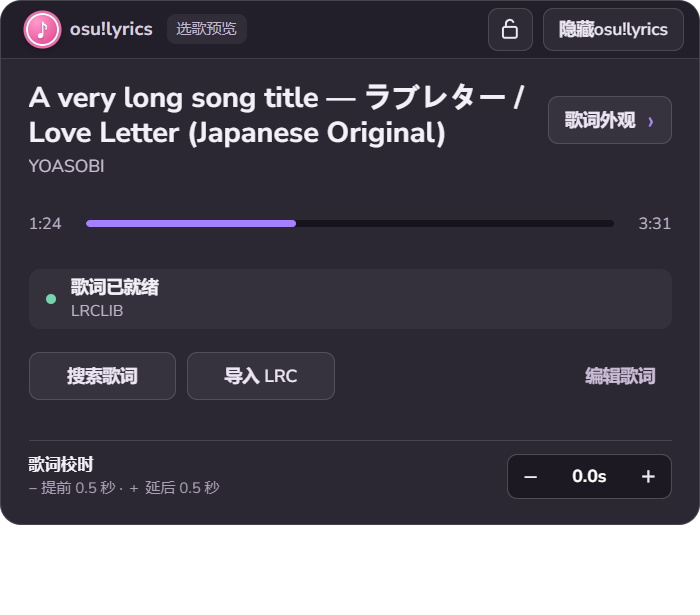
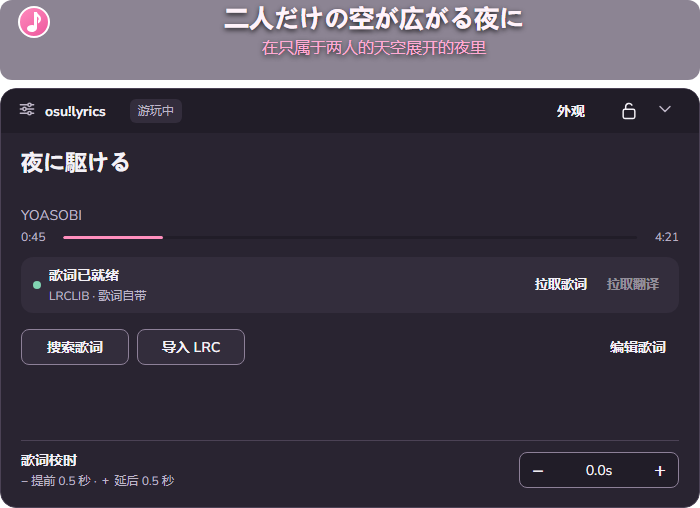
osu!lyrics 0.5.0: unified UI v2, recording-safe caches and lyric fixes
Brings main up to the build that has been in daily use:
- unified 44px header with settings menu, lock and collapse; pink note to expand
- lyrics and timing isolated per package and recording; stale imports rejected
- LRCLIB manual search uses the documented q parameter
- clock envelope resets on disconnect; known wrong-song Idol lyrics rejected

New in this release:
- caches saved by 0.4.12 and earlier are copied to the new per-recording names
  the first time a song is opened, so imported/edited lyrics and offsets survive
- README and interface notes describe the v2 controls; screenshots regenerated;
  drop internal review logs

diff --git a/README.en.md b/README.en.md
@@ -12,9 +12,9 @@ A standalone Windows lyrics overlay for osu!lazer. It reads the current beatmap 
 2. Start osu!lazer. If prompted to install tosu on first use, click **安装** (Install). The app downloads a pinned version and checks its SHA-256 hash. Use borderless or windowed mode so the external overlay can stay above the game.
 3. Play or preview a song. The app searches for timed lyrics automatically. If it cannot find a suitable version, use **搜索歌词** (Search lyrics), **导入 LRC** (Import LRC), or **编辑歌词** (Edit lyrics). The `−` and `＋` controls adjust timing by 0.5 seconds per click.
 
-Drag the lyrics to move them, or drag their edge to resize them. The lock icon locks their position. Click the pink note at the top left to collapse or expand the control panel; the panel can also be moved and resized from its edges. **歌词外观** (Lyric appearance) controls size, background opacity, colors, typography, and Chinese translation. Four color swatches provide quick styles. A fresh installation defaults to white lyrics with pink translation; the screenshot shows the Aqua style. Position, appearance, lock state, and per-song timing adjustments persist across launches.
+Drag the lyrics to move them, or drag their edge to resize them. The lock icon at the panel's top right locks their position. The ⌄ button collapses the control panel, leaving the lyrics and a pink note; click the note to expand it again. The settings button at the panel's top left opens the same menu as the tray icon (hide completely, lock, quit). The panel can also be moved and resized from its edges. **歌词外观** (Lyric appearance) controls size, background opacity, colors, typography, and Chinese translation. Four color swatches provide quick styles. A fresh installation defaults to white lyrics with pink translation; the screenshot shows the Aqua style. Position, appearance, lock state, and per-song timing adjustments persist across launches.
 
-Press **Ctrl+Alt+Shift+L** to hide or show the entire overlay, or use the note icon's menu in the Windows notification area. Use that menu to quit. If another application has taken the shortcut, the tray menu still works.
+Press **Ctrl+Alt+Shift+L** to hide or show the entire overlay, or use the settings menu or the note icon's menu in the Windows notification area. Use either menu to quit. Lyrics and timing saved by 0.4.12 or earlier are migrated the first time each song is opened. If another application has taken the shortcut, the tray menu still works.
 
 Settings and local lyrics are stored in `%APPDATA%\osu-lyrics-companion`. **The portable EXE is the recommended way to use the app.** `start.cmd` and `start.ps1` are only for running from source; the former can be double-clicked, and the latter can be run with `powershell -ExecutionPolicy Bypass -File .\start.ps1`. Both install dependencies on first use. Run `npm test` for the source tests. The application interface is currently in Chinese.
 

diff --git a/README.md b/README.md
@@ -16,7 +16,7 @@
 
 2. 打开 osu!lazer。首次使用若提示缺少 tosu，点「安装」，程序会自动下载固定版本。
 
-3. 根据自己喜好调整一下配置，然后**点击左上角粉色音符收起配置界面，开始 osu! 吧！**
+3. 根据自己喜好调整一下配置，然后**点击面板右上角的 ⌄ 收起配置界面，开始 osu! 吧！**
 
 ### 歌词与控制面板
 
@@ -24,9 +24,11 @@
 
 - 移动 / 缩放：拖动歌词或面板本体可移动位置，拖动边缘可缩放。
 
-- 锁定：点击锁图标锁定当前位置。
+- 锁定：点击面板右上角的锁图标锁定当前位置。
 
-- 收起 / 展开：点击**左上角粉色音符**可收起或展开控制面板。
+- 收起 / 展开：点面板右上角的 ⌄ 收起控制面板，只留下歌词和左侧的**粉色音符**；点粉色音符再展开。
+
+- 设置菜单：面板左上角的设置按钮里有「完全隐藏」「锁定位置」「退出」，和任务栏图标的菜单一样。
 
 - 校时：「−／＋」每次调整 0.5 秒。
 
@@ -36,9 +38,11 @@
 
 ### 显示与退出
 
-- 显示 / 隐藏：Ctrl+Alt+Shift+L 切换整个悬浮窗口，右键任务栏小图标也可切换。
+- 显示 / 隐藏：Ctrl+Alt+Shift+L 切换整个悬浮窗口；也可以用设置菜单或右键任务栏小图标。
 
-- 退出：右键任务栏小图标 → 退出。
+- 退出：设置菜单或任务栏小图标 → 退出。
+
+- 升级：0.4.12 及更早版本保存的歌词和校时会在第一次打开对应歌曲时自动迁移。
 
 - 若快捷键被其他软件占用，仍可通过任务栏小图标控制。
 

diff --git a/docs/interface-design.md b/docs/interface-design.md
@@ -2,6 +2,16 @@
 
 目标：在展开的面板中看清歌曲、歌词状态与外观参数；收起后只留下歌词与展开音符。
 
+## 0.5（统一 UI v2）相对下文的变化
+
+- 顶栏 44 像素：左侧是设置按钮（菜单和任务栏图标相同：完全隐藏、锁定、退出）、品牌和播放阶段；右侧是外观、锁定和收起（⌄）。
+- 粉色音符固定在歌词左侧（歌词左边预留 64 像素），只在收起后用来展开；不再兼作收起入口。
+- 主界面、外观三个分栏和候选页共用同一顶栏；外观和返回共用一个位置。
+- 展开/收起是 167ms 的不透明度过渡，过渡期间面板和歌词的位置都不动；系统开启“减少动画”时直接切换。
+- 歌词背景按当前主题、颜色和透明度一直显示，不再只在编辑时出现。
+
+下文是 0.4 的设计记录，结构和取舍仍然适用。截图为 0.5 界面。
+
 ## 原界面的三个结构问题
 
 1. 三个彩色大按钮比歌名和歌词状态更抢眼。用户需要先辨认操作，才能确认工具是否已经找到当前歌曲的歌词。
@@ -46,4 +56,4 @@
 
 ![排版设置](screenshots/typography.png)
 
-![缩小后的外观页](screenshots/compact-appearance.png)
+![收起后只剩歌词和粉色音符](screenshots/collapsed.png)
